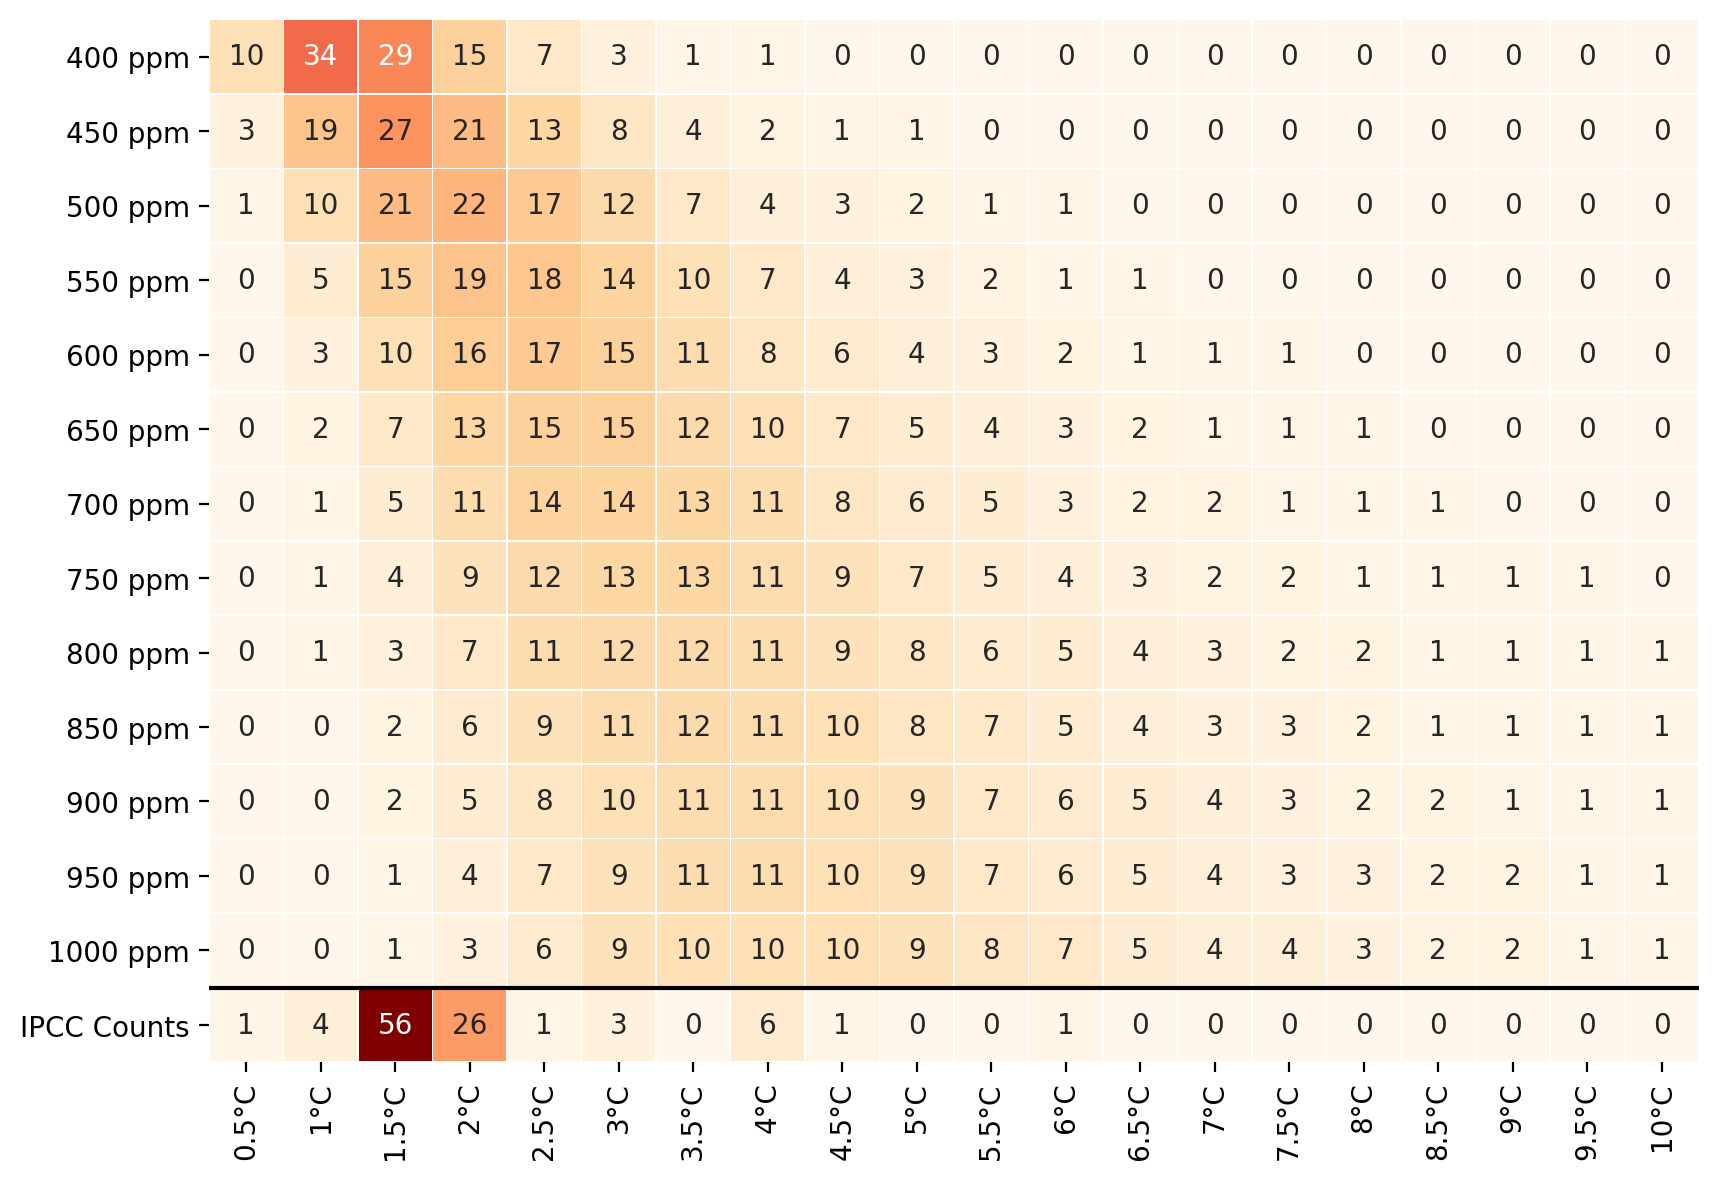
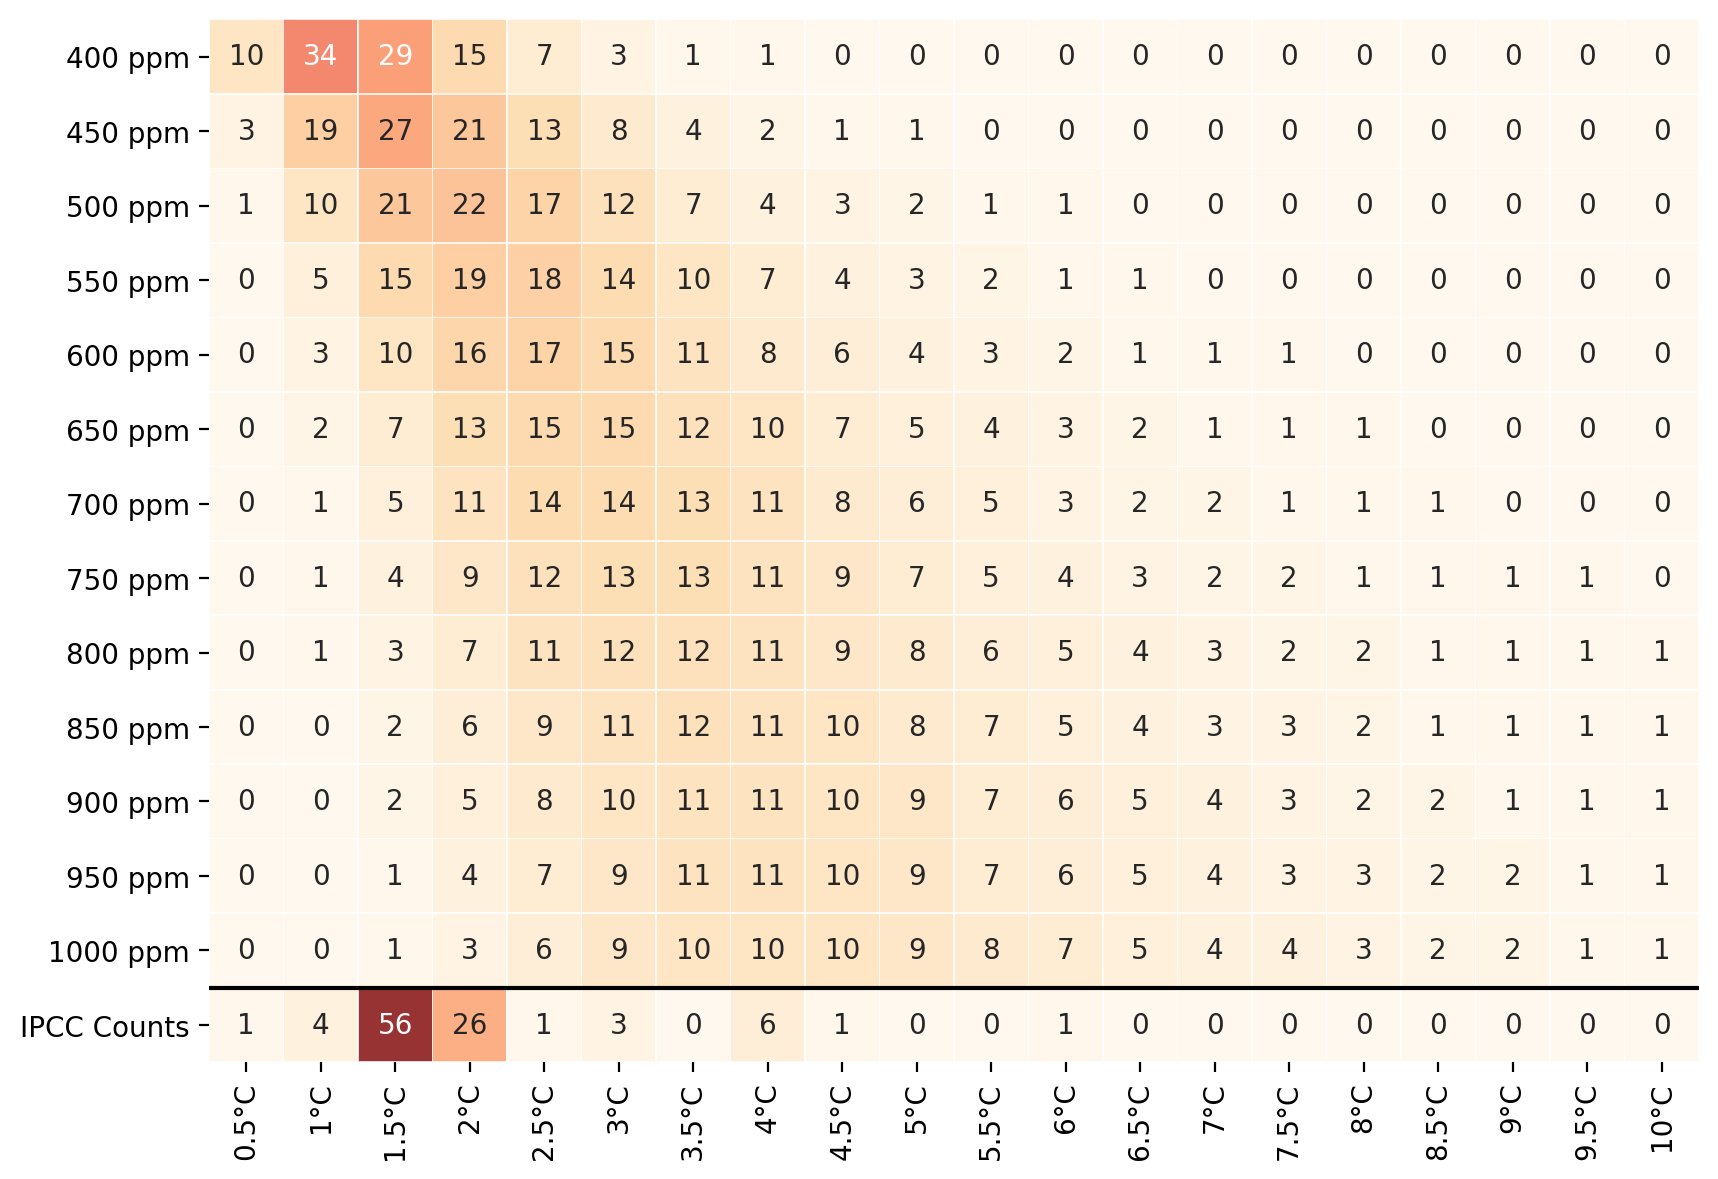
Updated colors

Changed region(s): [[0.1542, 0.0, 0.3085, 0.2137], [0.1851, 0.8244, 0.3085, 0.916]]

diff --git a/figure_2.py b/figure_2.py
@@ -73,7 +73,7 @@ def prepare_count_data():
 
 def plot_figure(combine_df):  
     """Plots the main figures for the different ppm"""  
-    ax = sns.heatmap(combine_df,cmap="OrRd", linewidth=0.2, square=True, annot=True, cbar=False)
+    ax = sns.heatmap(combine_df,cmap="OrRd", linewidth=0.2, square=True, annot=True, cbar=False, alpha=0.8)
     # Add a line to mark the counts
     ax.hlines([13], *ax.get_xlim())
     fig=plt.gcf()

diff --git a/figure_1.py b/figure_1.py
@@ -209,8 +209,8 @@ def plot_figure(color_prob, color_count, edgecolor):
     
 if __name__ == "__main__":
     # Read the data
-    color_prob = "#3A3A3A"
-    color_count = "#BD7F37FF"
+    color_prob = "#4F4F4F"
+    color_count = "#DBB587"
     edgecolor = "white"
 
     plot_figure(color_prob, color_count, edgecolor)
